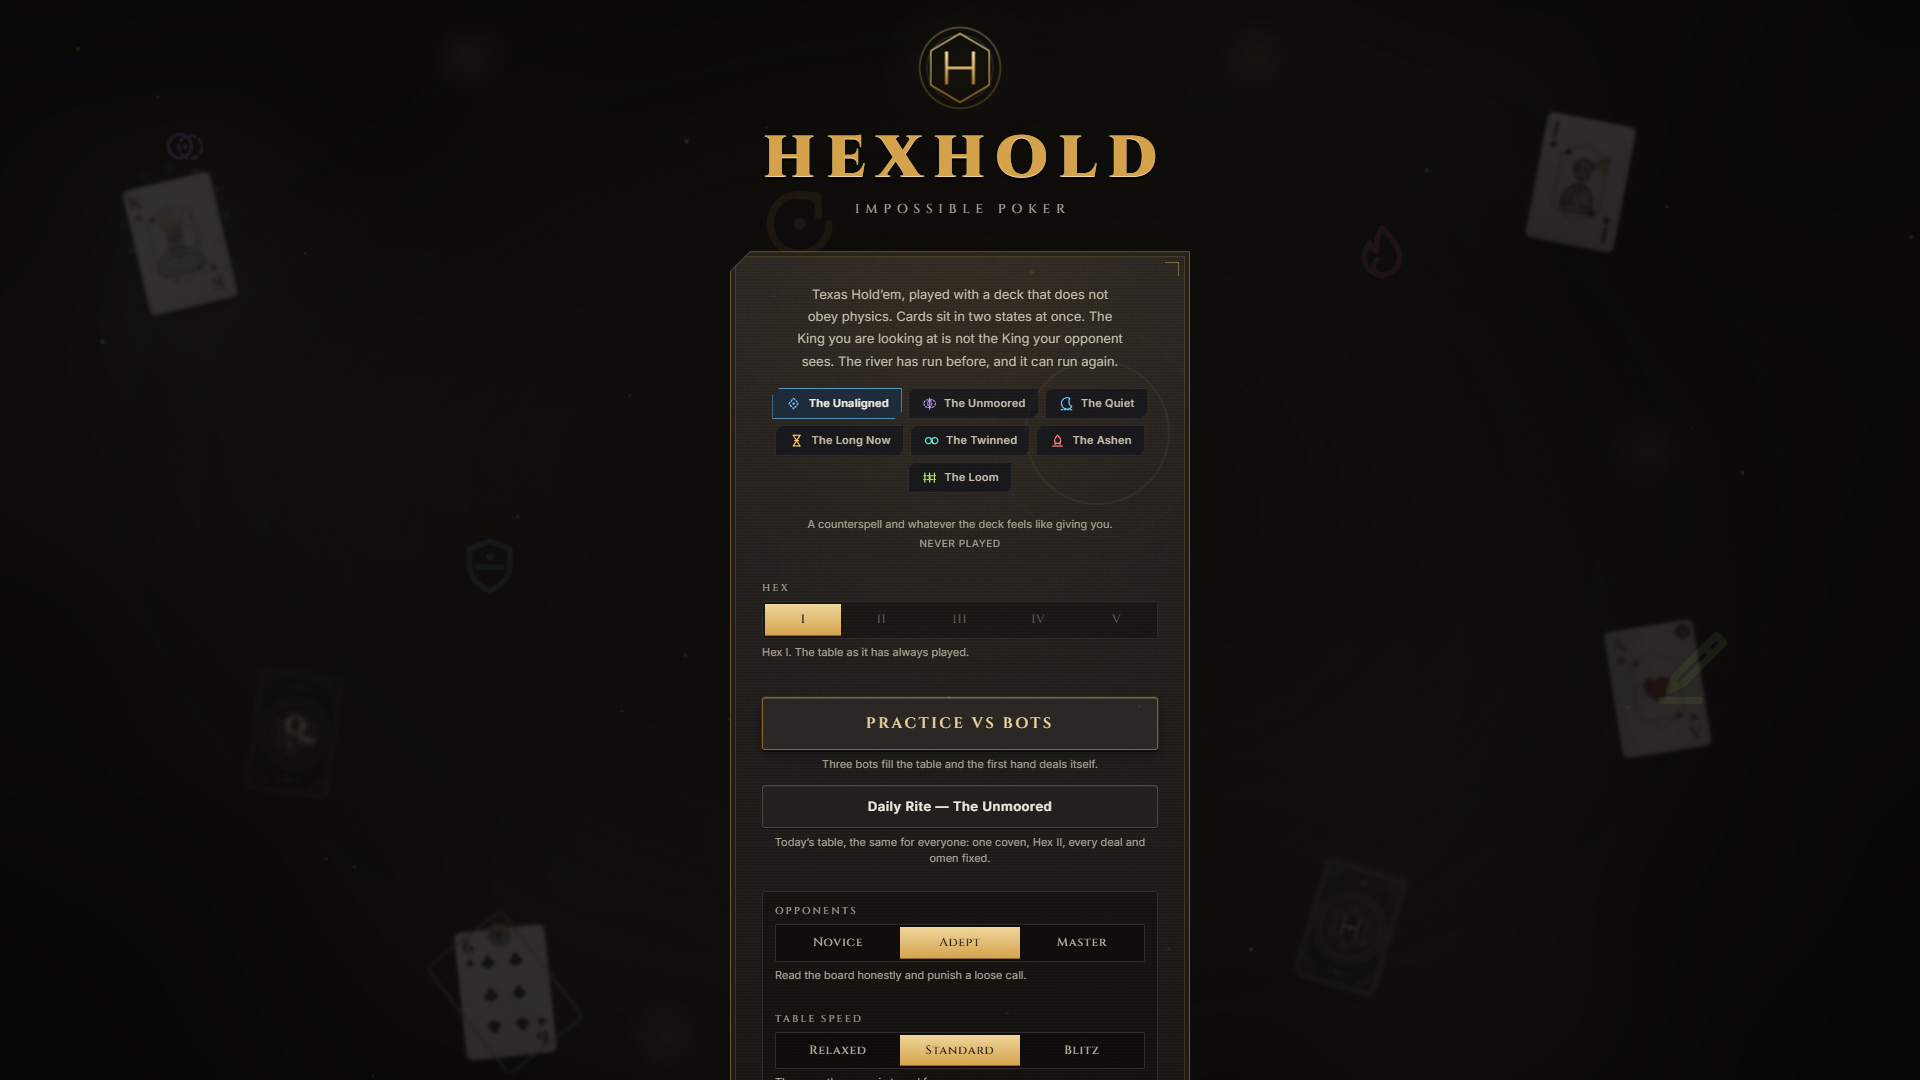
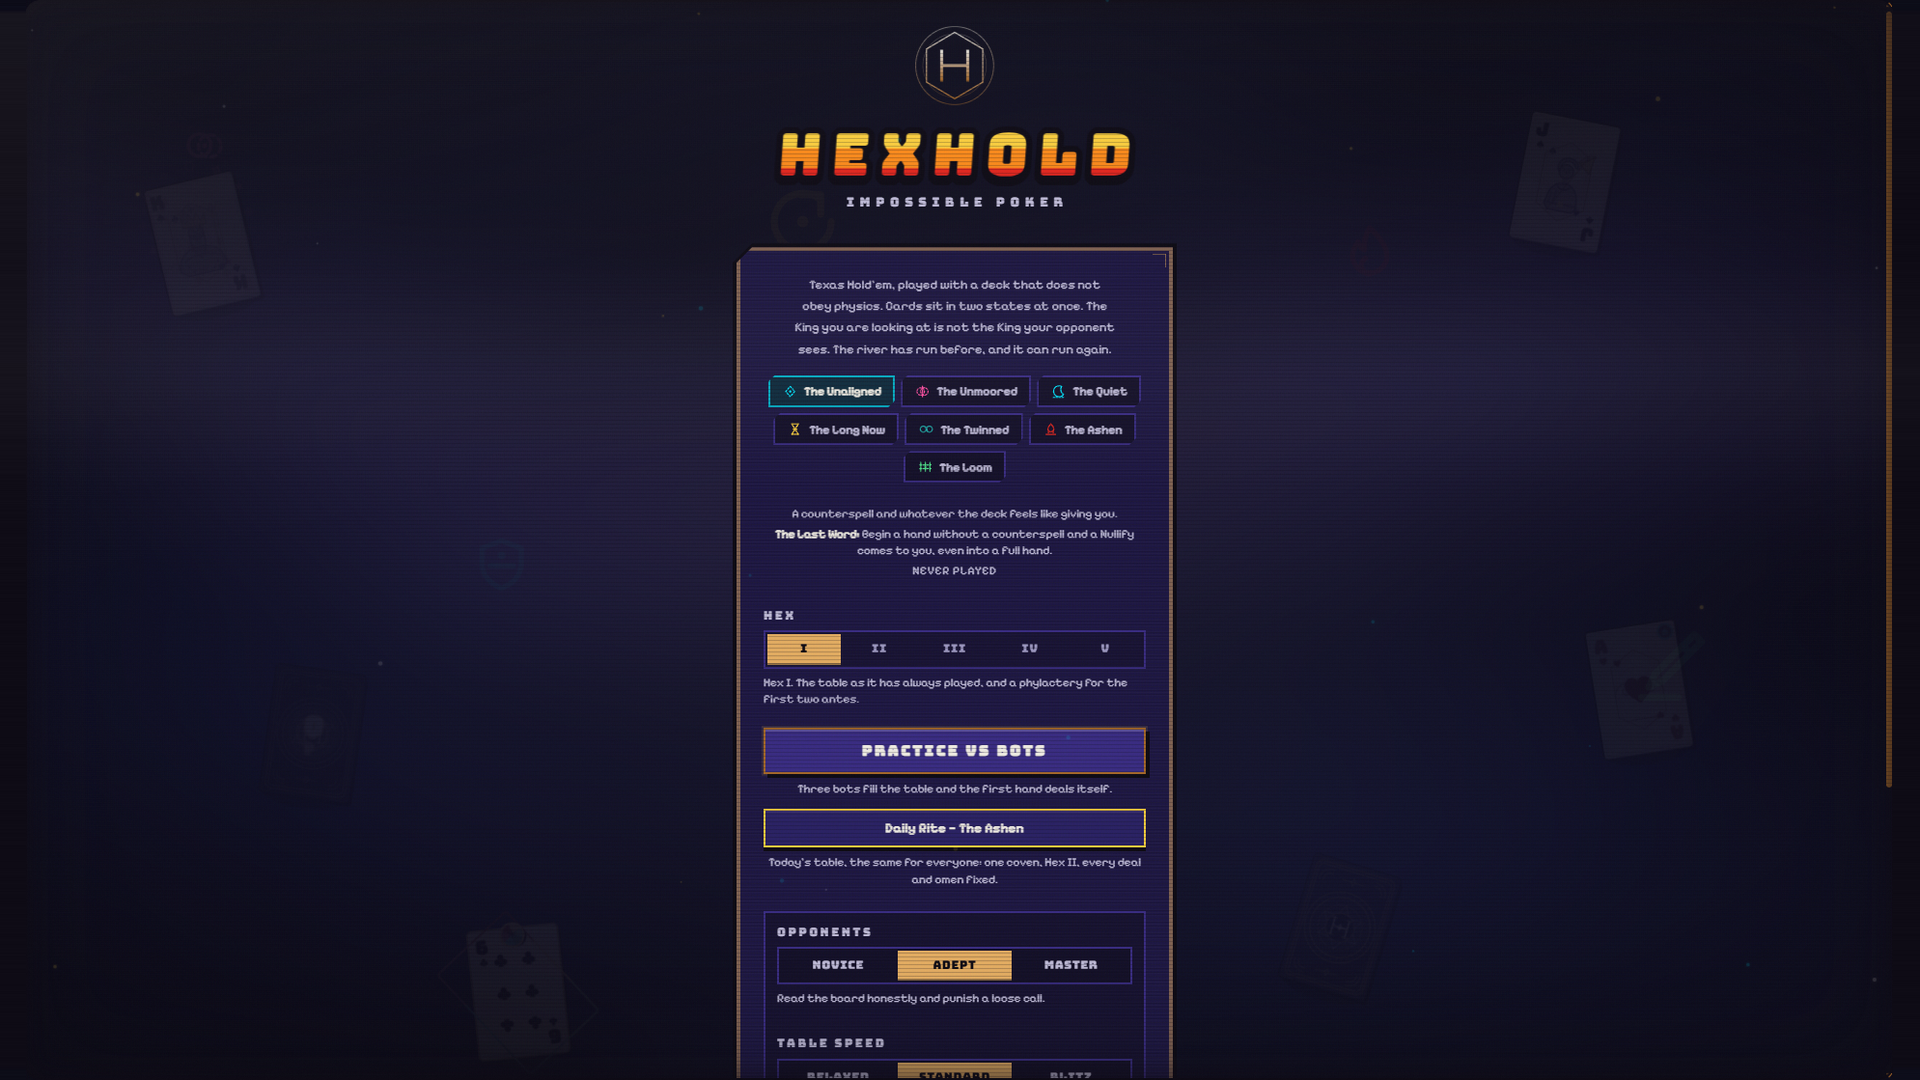
steam: store screenshots on the arcade look, and the Windows builds rebuilt
steam/screenshots/ predated the arcade look, so the store page would have
shown a different game. Recaptured from the packaged build at 26f0fa0
(node test/packaged.mjs 200 --shots), padded to 16:9 and scaled to
1920x1080; t02-stack replaces t03-showdown, which was nearly the same frame
as 06-showdown. The Windows full game and demo are rebuilt from 26f0fa0;
the Linux builds are not, and STEAM-READY.md says so.

diff --git a/STEAM-READY.md b/STEAM-READY.md
@@ -6,21 +6,28 @@ and everything below. (2026-10-12: this branch was fast-forwarded to `main`
 at `60c3e84`, the animation layer and the COUNTERED fix included, so the two
 were then the same commit.)
 
-**Current builds (2026-10-12, all four from `60c3e84`):**
+**Current builds: Windows full and demo from `26f0fa0` (2026-10-16, see the note under the table); Linux full and demo from `60c3e84` (2026-10-12):**
 
 | Build | Where | Smoke |
 | --- | --- | --- |
-| Windows full | `release/win-unpacked` (+ `HEXHOLD Setup 0.9.0.exe`, `HEXHOLD-0.9.0-win.zip`) | packaged 21/21, quit 9/9 |
-| Windows demo | `release-demo/win-unpacked` (+ `HEXHOLD Demo Setup 0.9.0.exe`, `HEXHOLD Demo-0.9.0-win.zip`) | packaged 22/22, quit 9/9, `test/demo.mjs` all pass |
+| Windows full | `release/win-unpacked` (+ `HEXHOLD Setup 0.9.0.exe`, `HEXHOLD-0.9.0-win.zip`) | 2026-10-16: packaged checks all pass (rerun), quit 9/9 |
+| Windows demo | `release-demo/win-unpacked` (+ `HEXHOLD Demo Setup 0.9.0.exe`, `HEXHOLD Demo-0.9.0-win.zip`) | 2026-10-16: packaged checks all pass (rerun), `test/demo.mjs` all pass |
 | Linux full | built in WSL Ubuntu-24.04 at `~/hexhold-main/release/linux-unpacked` (+ AppImage, tar.gz); copied to `release/linux-unpacked` | packaged 21/21, quit 6/6 |
 | Linux demo | `~/hexhold-main/release-demo/linux-unpacked` in WSL; copied to `release-demo/linux-unpacked` | packaged 22/22, quit 6/6 |
 
-**2026-10-16, fun round 5:** `main` is now 55 commits past `60c3e84` (the
-arcade art direction, cut-ins, hit-stop) plus round 5 (two relics on the
-Market's shelf, quick bots after a fold, the ligature fix; `FUN-REVIEW.md`).
-The four builds in the table above predate all of it: rebuild before anyone
-plays or uploads them. `steam/screenshots/` also predate the arcade look and
-must be recaptured (`node test/packaged.mjs 200 --shots`, then pick six).
+**2026-10-16, fun round 5:** the two Windows builds were rebuilt from `main`
+at `26f0fa0` (the arcade look and round 5: two relics on the Market's shelf,
+quick bots after a fold, the ligature fix; `FUN-REVIEW.md`), in this
+worktree's `release/win-unpacked` and `release-demo/win-unpacked`. Packaged
+smoke, full game: every check passed on a quiet machine (then the harness's
+known temp-profile EPERM on cleanup); the first run, beside the demo's
+packaging, failed the harness's own 15 s wait on Quit. Demo: every check
+passed on the rerun; the first run failed the same Quit wait. `node
+test/quit.mjs` on the full build: 9 of 9 quits with every process gone
+within 3 s, slowest 1.7 s, so the Quit flake is the harness's wait, not the
+game (worth one look before the demo ships). **The Linux builds in the table
+above were not rebuilt** (they predate the arcade look); rebuild them in WSL
+before uploading. `steam/screenshots/` were recaptured from the new build.
 
 `~/hexhold-main` is a clean WSL clone of `main` (`npm ci`, Node 24.12,
 Electron 44.4.3), built with `npm run package:linux` and

diff --git a/NEXT.md b/NEXT.md
@@ -31,9 +31,10 @@ release 8 Apr 2027. `main` is the line every build comes from;
    as a choice or a loss, and whether the Unaligned's fall is real.
 2. Mason: commissioned art (opponent portraits, coven art, capsules) and one
    listening pass with headphones. Presentation is a 7 "only just".
-3. Recapture `steam/screenshots/` from the current build
-   (`npm run package:win && node test/packaged.mjs 200 --shots`, then pick
-   six into `steam/screenshots/`): the committed ones predate the arcade look.
+3. Rebuild the Linux full game and demo in WSL (`scripts/linux-smoke.sh`
+   after): the Windows builds were rebuilt from `26f0fa0` on 2026-10-16, the
+   Linux ones predate the arcade look. The store screenshots were recaptured;
+   the generated capsules were not (commissioned art replaces them).
 4. Watch list from round 5: the Unaligned's win rate; the Unmoored's first
    ante (33% lose their stack, caught by the phylactery); mythics are rarely
    affordable (7 runs of 280 own a new one).

diff --git a/steam/store-page.md b/steam/store-page.md
@@ -243,7 +243,11 @@ section 2.2). Every file is at Steam's exact size.
 screenshots that "only contain gameplay". `01-menu.png` and
 `11-menu-overlay.png` are the main menu and the pause menu, so leave them out:
 upload `02-your-turn`, `06-showdown`, `07-spell-stack`, `08-market`,
-`10-targeting` and `t03-showdown`.
+`10-targeting` and `t02-stack`. (Recaptured 2026-10-16 from the packaged
+build on the arcade look, `node test/packaged.mjs 200 --shots`; the window
+came out 1936x1119, so each was padded to 16:9 with its own edge colour and
+scaled to 1920x1080. The capsules in `art/` are still made from the older
+look's frames until the commissioned art replaces them.)
 
 All capsule art is regenerated by `python steam/make_art.py` from the packaged
 game's own frames (`node test/packaged.mjs 200 --shots`), with the title in

diff --git a/FUN-REVIEW.md b/FUN-REVIEW.md
@@ -1108,6 +1108,8 @@ from simulated players and one blind reviewer; a human playtest decides
 whether it holds.
 
 **Sellable at $9.99: yes**, on the same conditions as before (no online play
-on the store page until Steam invites exist; commissioned capsule art). One
-new condition: `steam/screenshots/` predate the arcade look and must be
-recaptured before the store page goes up, or the page shows a different game.
+on the store page until Steam invites exist; commissioned capsule art). The
+store screenshots predated the arcade look, so the page would have shown a
+different game; they were recaptured from the rebuilt packaged build this
+round (`steam/screenshots/`). The generated capsules still use the older
+look's frames until the commissioned art replaces them.
